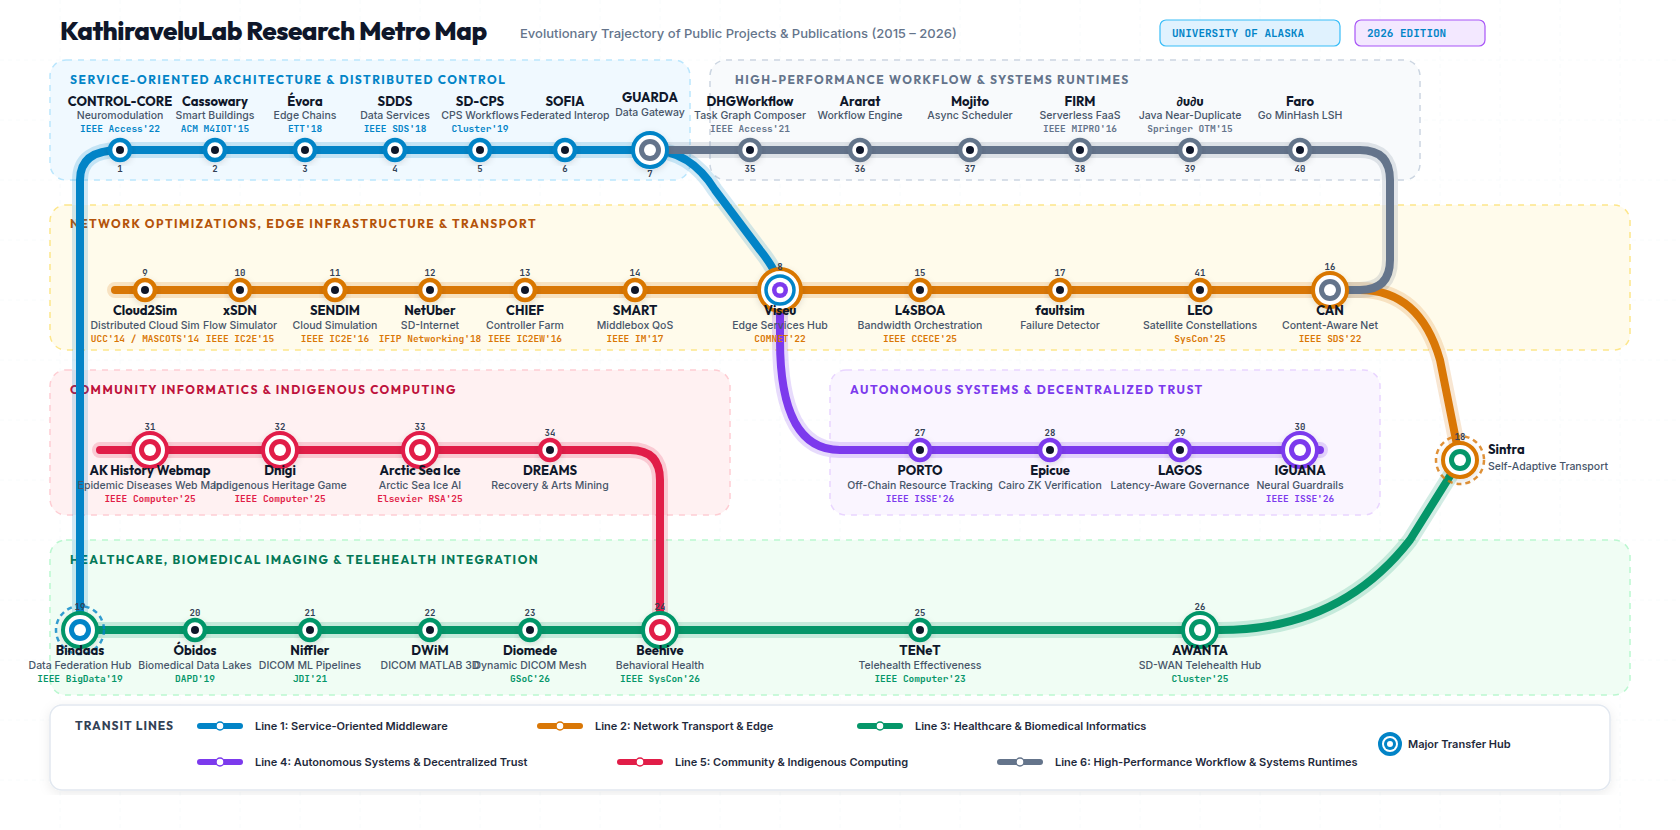
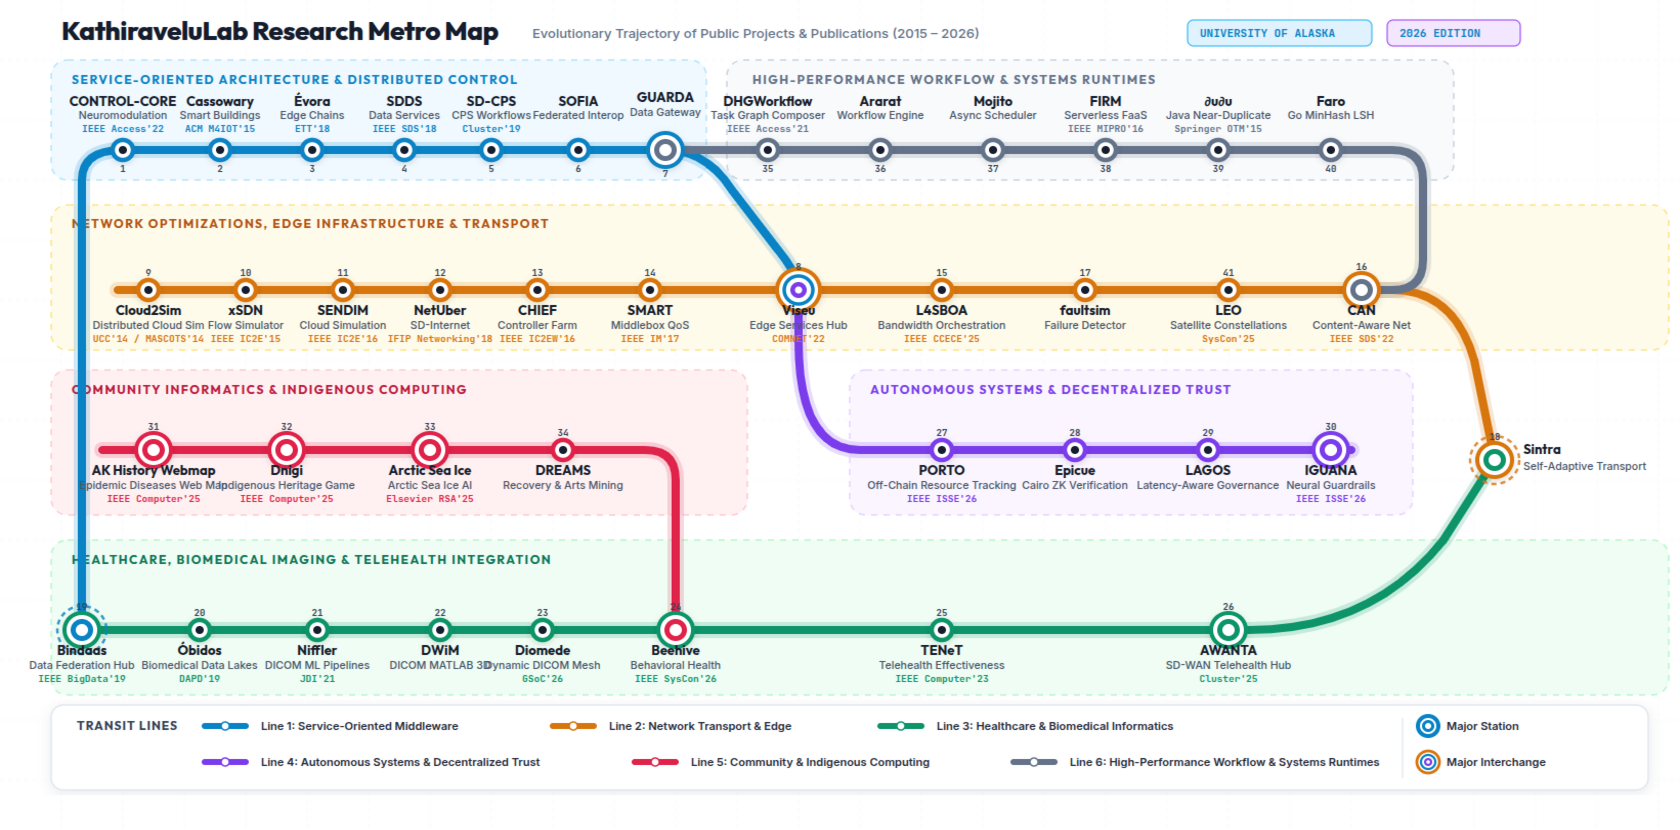
Change caption at the bottom panel.

diff --git a/generate-svg.js b/generate-svg.js
@@ -283,16 +283,29 @@ function generateSvg() {
     <text x="615" y="46" class="legend-text">Line 5: Community &amp; Indigenous Computing</text>
 
     <!-- Line 6 -->
-    <line x1="940" y1="42" x2="980" y2="42" stroke="#64748b" stroke-width="6" stroke-linecap="round"/>
-    <circle cx="960" cy="42" r="4" fill="#ffffff" stroke="#64748b" stroke-width="1.5"/>
-    <text x="995" y="46" class="legend-text">Line 6: High-Performance Workflow &amp; Systems Runtimes</text>
+    <line x1="930" y1="42" x2="970" y2="42" stroke="#64748b" stroke-width="6" stroke-linecap="round"/>
+    <circle cx="950" cy="42" r="4" fill="#ffffff" stroke="#64748b" stroke-width="1.5"/>
+    <text x="985" y="46" class="legend-text">Line 6: High-Performance Workflow &amp; Systems Runtimes</text>
 
-    <!-- Symbols -->
-    <g transform="translate(1330, 24)">
+    <!-- Legend Divider -->
+    <line x1="1310" y1="-2" x2="1310" y2="58" stroke="#e2e8f0" stroke-width="1.2"/>
+
+    <!-- Hub Symbols -->
+    <!-- Major Station (Blue inside Blue) -->
+    <g transform="translate(1335, 6)">
       <circle cx="0" cy="0" r="10" class="hub-outer" stroke="#0284c7" fill="#ffffff"/>
       <circle cx="0" cy="0" r="6" fill="#0284c7"/>
       <circle cx="0" cy="0" r="3" class="hub-inner"/>
-      <text x="18" y="4" class="legend-text" font-size="10.5">Major Transfer Hub</text>
+      <text x="18" y="4" class="legend-text" font-size="10.5">Major Station</text>
+    </g>
+
+    <!-- Major Interchange (3 Different Layers: Amber, Blue, Purple) -->
+    <g transform="translate(1335, 42)">
+      <circle cx="0" cy="0" r="11" fill="#ffffff" stroke="#d97706" stroke-width="2.8"/>
+      <circle cx="0" cy="0" r="7" fill="#ffffff" stroke="#0284c7" stroke-width="2.2"/>
+      <circle cx="0" cy="0" r="4" fill="#7c3aed"/>
+      <circle cx="0" cy="0" r="1.8" fill="#ffffff" class="hub-inner"/>
+      <text x="18" y="4" class="legend-text" font-size="10.5">Major Interchange</text>
     </g>
   </g>
 </svg>`;

diff --git a/app.js b/app.js
@@ -655,9 +655,22 @@
     repoList.innerHTML = '';
     station.repos.forEach(repo => {
       const link = document.createElement('a');
-      link.className = 'repo-link';
-      const repoFullName = repo.includes('/') ? repo : `KathiraveluLab/${repo}`;
-      link.href = `https://github.com/${repoFullName}`;
+      let repoUrl;
+      let repoFullName;
+      if (repo.startsWith('http://') || repo.startsWith('https://')) {
+        repoUrl = repo;
+        repoFullName = repo.replace(/^https?:\/\/github\.com\//, '');
+      } else if (repo === 'controlcore-project') {
+        repoUrl = 'https://github.com/controlcore-project';
+        repoFullName = 'controlcore-project';
+      } else if (repo.includes('/')) {
+        repoUrl = `https://github.com/${repo}`;
+        repoFullName = repo;
+      } else {
+        repoUrl = `https://github.com/KathiraveluLab/${repo}`;
+        repoFullName = `KathiraveluLab/${repo}`;
+      }
+      link.href = repoUrl;
       link.target = '_blank';
       link.rel = 'noopener noreferrer';
       link.innerHTML = `

diff --git a/index.html b/index.html
@@ -122,7 +122,7 @@
   <main class="canvas-viewport" id="canvas-viewport" tabindex="0" role="region" aria-label="Interactive KathiraveluLab Metro Map Canvas">
     <div class="canvas-surface" id="canvas-surface">
       <!-- Embedded Interactive SVG Container -->
-      <svg id="metro-svg" viewBox="0 0 1680 980" preserveAspectRatio="xMidYMid meet"></svg>
+      <svg id="metro-svg" viewBox="0 0 1680 830" preserveAspectRatio="xMidYMid meet"></svg>
     </div>
   </main>
 
@@ -205,7 +205,7 @@
   </aside>
 
   <!-- Load Metro Data and App Logic -->
-  <script src="metro-data.js"></script>
-  <script src="app.js"></script>
+  <script src="metro-data.js?v=2026.9"></script>
+  <script src="app.js?v=2026.9"></script>
 </body>
 </html>

diff --git a/metro-data.js b/metro-data.js
@@ -90,11 +90,9 @@ const METRO_DATA = {
       "y": 150,
       "isMajorHub": false,
       "repos": [
-        "concore",
-        "concore-editor",
-        "concore-Mediator"
+        "controlcore-project"
       ],
-      "primaryRepo": "concore",
+      "primaryRepo": "controlcore-project",
       "tech": [
         "SWIG",
         "Python",

diff --git a/README.md b/README.md
@@ -34,7 +34,7 @@ The metropolitan map organizes **41 flagship research stations** across **6 inte
 ## Flagship Publications & Station Directory
 
 ### Line 1: Service-Oriented & Distributed Middleware
-1. **CONTROL-CORE** (`concore`, `concore-editor`, `concore-Mediator`): Closed-loop peripheral neuromodulation (*IEEE Access'22*, *Springer Cluster'25*), orchestrating feedback loops via the NEXUS software-defined workflow framework.
+1. **CONTROL-CORE** ([`controlcore-project`](https://github.com/controlcore-project)): Closed-loop peripheral neuromodulation (*IEEE Access'22*, *Springer Cluster'25*), orchestrating feedback loops via the NEXUS software-defined workflow framework.
 2. **Cassowary** (`Cassowary`): Context-aware smart buildings and decentralized SD-MANETs for IoT & smart homes (*ACM M4IOT'15*, *IJCAC'26*).
 3. **Évora** (`Evora`): Adaptive edge service chaining (*Trans. Emerging Tel. Tech. (ETT)'18*, *IEEE ICWS'16*).
 4. **SDDS** (`SDDS`, `messaging4transport`): Software-defined data services (*IEEE SDS'18*).
